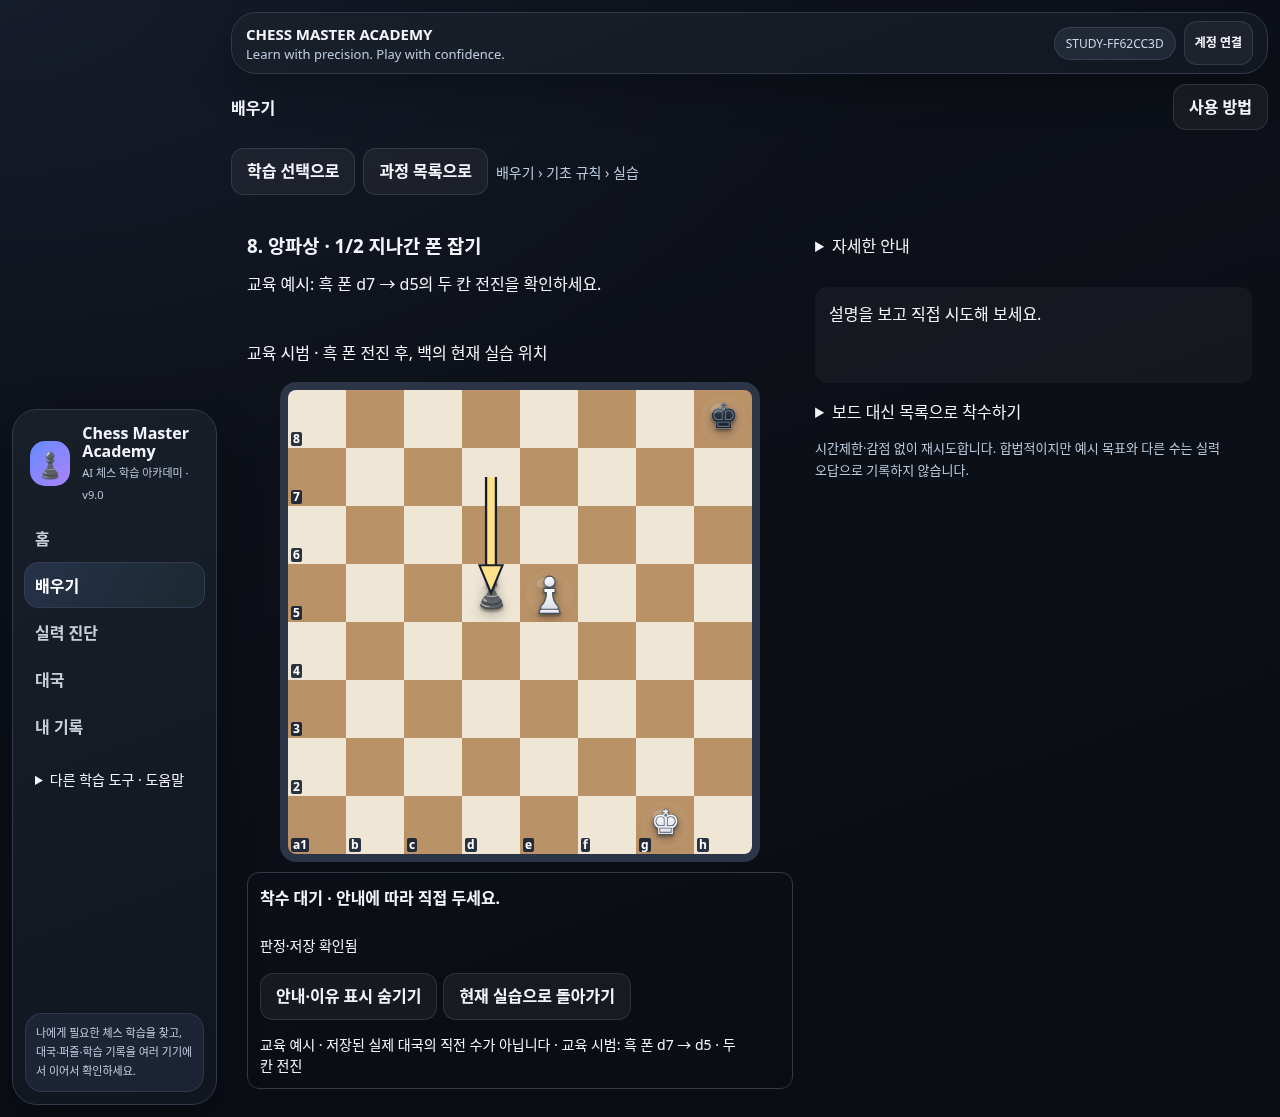
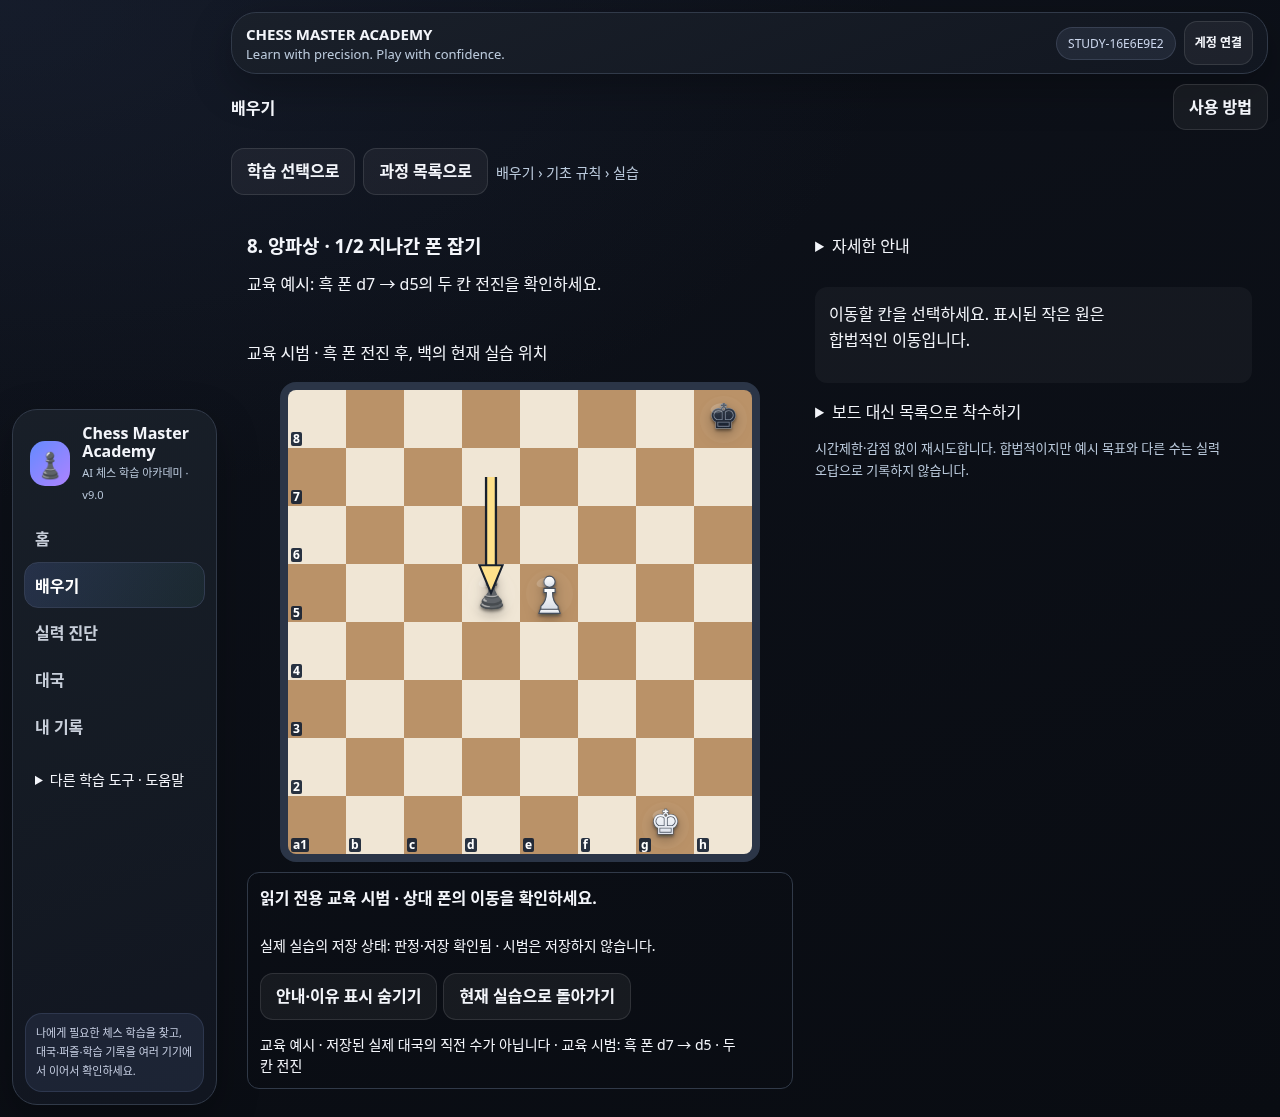
Keep en passant demonstration feedback and targets read-only

Changed region(s): [[0.1875, 0.7914, 0.5, 0.8523], [0.6562, 0.2739, 0.875, 0.3044], [0.8438, 0.0304, 0.9062, 0.0609]]

diff --git a/public/foundations.js b/public/foundations.js
@@ -16,15 +16,16 @@ foundation.innerHTML=`<div class="foundation-header"><span class="tag">규칙부
 const feedbackPanel=document.createElement('section');feedbackPanel.id='foundationLive';feedbackPanel.setAttribute('aria-label','착수 판정과 저장 상태');
 for(const [id,label]of [['foundationOutcome','설명을 보고 직접 시도해 보세요.'],['foundationSave','저장 상태 확인 대기']]){const n=make(feedbackPanel,'p',label);n.id=id;n.setAttribute('role','status');n.setAttribute('aria-atomic','true');}
 $('foundationBoard').after(feedbackPanel);const visualTools=make(feedbackPanel,'div');visualTools.id='foundationVisualTools';const visualToggle=button(visualTools,'안내·이유 표시 숨기기',()=>{showVisual=!showVisual;paint();});visualToggle.id='foundationVisualToggle';
-const demoStart=button(visualTools,'앙파상 교육 예시 보기',()=>{demoFrame='before';paint();});demoStart.id='foundationDemoStart';const demoNext=button(visualTools,'상대 폰 두 칸 이동 보기',()=>{demoFrame='after';paint();});demoNext.id='foundationDemoNext';const demoReturn=button(visualTools,'현재 실습으로 돌아가기',()=>{demoFrame=null;paint();});demoReturn.id='foundationDemoReturn';
+const demoStart=button(visualTools,'앙파상 교육 예시 보기',()=>{selected=null;demoFrame='before';paint();});demoStart.id='foundationDemoStart';const demoNext=button(visualTools,'상대 폰 두 칸 이동 보기',()=>{demoFrame='after';paint();});demoNext.id='foundationDemoNext';const demoReturn=button(visualTools,'현재 실습으로 돌아가기',()=>{demoFrame=null;paint();});demoReturn.id='foundationDemoReturn';
 const visualLegend=make(feedbackPanel,'p');visualLegend.id='foundationVisualLegend';const retry=button(feedbackPanel,'저장 상태 다시 확인',()=>load());retry.id='foundationSaveRetry';retry.hidden=true;
 const fullInstruction=make($('foundationFeedback').parentElement,'details');fullInstruction.id='foundationFullInstruction';make(fullInstruction,'summary','자세한 안내');const fullInstructionText=make(fullInstruction,'p');$('foundationFeedback').before(fullInstruction);
 $('foundationFeedback').removeAttribute('role');$('foundationPromotionWrap').remove();
 const introDetails=document.createElement('details');make(introDetails,'summary','배우는 내용과 범위');const header=foundation.querySelector('.foundation-header');for(const p of [...header.querySelectorAll('p')])introDetails.append(p);header.append(introDetails);const alternatives=document.createElement('details');make(alternatives,'summary','다른 학습으로 이동 · 저장된 활동 보존');alternatives.append(header.querySelector('.btn-row'));header.append(alternatives);
 const home=document.createElement('section');home.id='foundationHome';home.className='card';home.innerHTML='<h3>어디서 이어갈까요?</h3><p id="foundationHomeText">규칙을 처음 배우면 아카데미 기초부터 시작하세요. 경험이 있다면 진단과 훈련을 선택할 수 있어요.</p><div class="btn-row"><button class="btn primary" id="foundationHomeOpen">기초 아카데미 보기</button><button class="btn" id="foundationHomeDiagnosis">진단 · 이어하기</button></div>';$('home').prepend(home);
-let data=null,owner=null,generation=0,busy=false,selected=null,failed=false,loading=null,tacticsChosen=false,showVisual=true,demoFrame=null;
+let data=null,owner=null,generation=0,busy=false,selected=null,failed=false,loading=null,tacticsChosen=false,showVisual=true,demoFrame=null,outcomeText='설명을 보고 직접 시도해 보세요.',saveText='저장 상태 확인 대기';
 const notice=s=>{$('foundationStatus').textContent=s;};
-function feedback(outcome,save){if(outcome)$('foundationOutcome').textContent=outcome;if(save)$('foundationSave').textContent=save;$('foundationSaveRetry').hidden=!failed;}
+function displayFeedback(){const outcome=demoFrame?'읽기 전용 교육 시범 · 상대 폰의 이동을 확인하세요.':outcomeText;const save=demoFrame?'실제 실습의 저장 상태: '+saveText+' · 시범은 저장하지 않습니다.':saveText;for(const[id,text]of [['foundationOutcome',outcome],['foundationSave',save]])if($(id).textContent!==text)$(id).textContent=text;}
+function feedback(outcome,save){if(outcome)outcomeText=outcome;if(save)saveText=save;displayFeedback();$('foundationSaveRetry').hidden=!failed;}
 function reset(){demoFrame=null;feedback('설명을 보고 직접 시도해 보세요.','저장 상태 확인 대기');window.cmaHomeFoundation?.(null);tacticsChosen=false;generation++;loading=null;data=null;owner=token;selected=null;busy=false;failed=false;$('foundationWorkspace').hidden=true;$('foundationCards').replaceChildren();$('foundationPrimary').replaceChildren();$('foundationBoard').replaceChildren();$('foundationHomeText').textContent='기초 진행은 로그인한 계정별로 저장됩니다. 진단과 훈련은 별도로 이어갑니다.';}
 function controls(){foundation.setAttribute('aria-busy',String(busy));for(const b of foundation.querySelectorAll('button:not(.sq),select'))b.disabled=busy||failed;for(const id of ['foundationReload','foundationSaveRetry','foundationToTactics','foundationReturnDiagnosis','foundationReturnTraining'])$(id).disabled=busy;window.cmaNavigation?.refresh();}
 async function loadCore(){if(owner!==token)reset();if(busy)return;if(!token){$('foundationPrimary').replaceChildren();notice('로그인 후 기초 진행을 저장하고 이어갈 수 있습니다.');button($('foundationPrimary'),'계정 연결 후 시작',()=>ready(window.cmaNavigation?'learn/basics':'learn'));return;}const id=token,rev=++generation;busy=true;failed=false;feedback(null,'저장된 상태 확인 중…');notice('기초 학습의 저장 상태를 불러오는 중입니다…');controls();try{const d=await api('/foundations');if(id!==token||rev!==generation)return;data=d;render();feedback(null,'서버 저장 상태 확인됨');notice(d.scope);}catch(e){if(id===token&&rev===generation){failed=true;feedback('판정 대기 · 저장 상태를 다시 확인하세요.','불러오기 실패 · 기존 기록은 변경하지 않았습니다.');notice('기초 진행을 불러오지 못했습니다. 기존 기록은 그대로입니다. 다시 불러오세요. '+e.message);}}finally{if(id===token&&rev===generation){busy=false;controls();paint();}}}
@@ -32,7 +33,7 @@ function load(){if(owner!==token)reset();if(loading)return loading;const job=loa
 async function act(action,course_id,value=''){const navigationVersion=window.cmaNavigation?.version();if(['start','review'].includes(action))window.cmaNavigation?.capture();if(busy||failed||!data||owner!==token)return;const id=token,rev=++generation;busy=true;demoFrame=null;selected=null;feedback('착수·단계 확인 중…','판정과 저장 응답 대기 중');controls();notice('기초 진행을 저장하고 있습니다…');try{const d=await api('/foundations/action','POST',{action,course_id,revision:data.revision,step:data.active?.step||0,value});if(id!==token||rev!==generation)return;data=d;render();const stillHere=navigationVersion===window.cmaNavigation?.version();window.cmaNavigation?.foundationAction(action,navigationVersion);feedback(null,'판정·저장 확인됨');notice(d.scope);if(stillHere&&(action==='start'||action==='review'||action==='next')){$('foundationStepTitle').focus();$('foundationWorkspace').scrollIntoView({block:'start'});}}catch(e){if(id===token&&rev===generation){failed=true;feedback('판정 미확인 · 재제출하지 말고 저장 상태를 확인하세요.','저장 여부 미확인 · '+e.message);notice('저장 여부를 확인하려면 다시 불러오세요. 중복 제출하지 않습니다. '+e.message);}}finally{if(id===token&&rev===generation){busy=false;controls();paint();}}}
 async function submit(from,to){const task=data?.active;if(busy||failed||!task||task.solved||demoFrame)return;const base=from+to;let promotion='';if(task.legal.some(u=>u.startsWith(base)&&u.length===5)){const account=token,rev=generation,view=window.cmaNavigation?.version();busy=true;controls();try{promotion=await choosePromotion(from,to,fromFen(task.fen)[from],task.legal);if(promotion===null||account!==token||rev!==generation||view!==window.cmaNavigation?.version())return;}finally{if(account===token&&rev===generation){busy=false;controls();paint();if(view===window.cmaNavigation?.version())$('foundationBoard').querySelector(`[aria-label^="${from} "]`)?.focus({preventScroll:true});}}}if(promotion!==null)act('move',task.course_id,base+promotion);}
 function instruction(t){const guide=t.visual?.arrows?.find(a=>a.kind==='guide');return t.kind==='move'&&guide?'이동 안내: '+guide.from+' → '+guide.to+' · '+t.text.split('. ')[0]:t.text;}
-function paint(){const t=data?.active;if(!t)return;const focused=$('foundationBoard').contains(document.activeElement)?(selected||document.activeElement.getAttribute('aria-label')?.split(' ')[0]):null;const demo=t.visual?.demonstration;if(demoFrame&&!demo)demoFrame=null;$('foundationTurn').textContent=demoFrame?(demoFrame==='before'?'교육 시범 · 흑 폰이 두 칸 전진하기 전':'교육 시범 · 흑 폰 전진 후, 백의 현재 실습 위치'):t.solved?'이 단계 확인 완료':(t.side==='white'?'백':'흑')+' 차례 · '+(t.kind==='judge'?'현재 보드를 보고 판단하세요':'기물을 고른 뒤 도착 칸을 누르세요');$('foundationInstruction').textContent=demoFrame?'교육 예시: 흑 폰 d7 → d5의 두 칸 전진을 확인하세요.':instruction(t);const displayed=demoFrame&&demo?(demoFrame==='before'?demo.before_fen:demo.after_fen):t.fen;drawBoard('foundationBoard',fromFen(displayed),{flip:t.side==='black',selected,targets:selected?t.legal.filter(u=>u.startsWith(selected)).map(u=>({to:u.slice(2,4)})):[],onClick:!demoFrame&&!busy&&!failed&&!t.solved&&t.kind==='move'?sq=>{if(selected===sq){selected=null;paint();return;}if(selected){submit(selected,sq);return;}if(t.pieces.some(p=>p.square===sq)){selected=sq;paint();$('foundationFeedback').textContent='이동할 칸을 선택하세요. 표시된 작은 원은 합법적인 이동입니다.';}else $('foundationFeedback').textContent='지금 차례의 기물을 먼저 선택해 주세요.';}:undefined});const visual=demoFrame&&demo?{fen:displayed,arrows:[{from:'d7',to:'d5',kind:'guide',label:'교육 시범: 흑 폰 d7 → d5 · 두 칸 전진'}]}:t.visual;window.cmaFoundationVisual?.draw('foundationBoard',visual,t.side==='black',showVisual);visualToggle.textContent=showVisual?'안내·이유 표시 숨기기':'안내·이유 표시 다시 보기';demoStart.hidden=!demo||!!demoFrame;demoNext.hidden=demoFrame!=='before';demoReturn.hidden=!demoFrame;visualLegend.textContent=(demoFrame?demo.label+' · ':'')+(showVisual?(visual?.arrows||[]).map(a=>a.label).join(' / '):'안내·이유 표시를 숨겼습니다.')+(visual?.check_king?' · '+visual.check_king+' 킹 체크':'')+(visual?.ending==='checkmate'?' · 체크메이트':visual?.ending==='stalemate'?' · 스테일메이트':'');if(focused)$('foundationBoard').querySelector(`[aria-label^="${focused} "]`)?.focus();}
+function paint(){const t=data?.active;if(!t)return;const focused=$('foundationBoard').contains(document.activeElement)?(selected||document.activeElement.getAttribute('aria-label')?.split(' ')[0]):null;const demo=t.visual?.demonstration;if(demoFrame&&!demo)demoFrame=null;displayFeedback();$('foundationTurn').textContent=demoFrame?(demoFrame==='before'?'교육 시범 · 흑 폰이 두 칸 전진하기 전':'교육 시범 · 흑 폰 전진 후, 백의 현재 실습 위치'):t.solved?'이 단계 확인 완료':(t.side==='white'?'백':'흑')+' 차례 · '+(t.kind==='judge'?'현재 보드를 보고 판단하세요':'기물을 고른 뒤 도착 칸을 누르세요');$('foundationInstruction').textContent=demoFrame?'교육 예시: 흑 폰 d7 → d5의 두 칸 전진을 확인하세요.':instruction(t);const displayed=demoFrame&&demo?(demoFrame==='before'?demo.before_fen:demo.after_fen):t.fen;drawBoard('foundationBoard',fromFen(displayed),{flip:t.side==='black',selected:demoFrame?null:selected,targets:!demoFrame&&selected?t.legal.filter(u=>u.startsWith(selected)).map(u=>({to:u.slice(2,4)})):[],onClick:!demoFrame&&!busy&&!failed&&!t.solved&&t.kind==='move'?sq=>{if(selected===sq){selected=null;paint();return;}if(selected){submit(selected,sq);return;}if(t.pieces.some(p=>p.square===sq)){selected=sq;paint();$('foundationFeedback').textContent='이동할 칸을 선택하세요. 표시된 작은 원은 합법적인 이동입니다.';}else $('foundationFeedback').textContent='지금 차례의 기물을 먼저 선택해 주세요.';}:undefined});const visual=demoFrame&&demo?{fen:displayed,arrows:[{from:'d7',to:'d5',kind:'guide',label:'교육 시범: 흑 폰 d7 → d5 · 두 칸 전진'}]}:t.visual;window.cmaFoundationVisual?.draw('foundationBoard',visual,t.side==='black',showVisual);visualToggle.textContent=showVisual?'안내·이유 표시 숨기기':'안내·이유 표시 다시 보기';demoStart.hidden=!demo||!!demoFrame;demoNext.hidden=demoFrame!=='before';demoReturn.hidden=!demoFrame;visualLegend.textContent=(demoFrame?demo.label+' · ':'')+(showVisual?(visual?.arrows||[]).map(a=>a.label).join(' / '):'안내·이유 표시를 숨겼습니다.')+(visual?.check_king?' · '+visual.check_king+' 킹 체크':'')+(visual?.ending==='checkmate'?' · 체크메이트':visual?.ending==='stalemate'?' · 스테일메이트':'');if(focused)$('foundationBoard').querySelector(`[aria-label^="${focused} "]`)?.focus();}
 function render(){if(!data)return;window.cmaHomeFoundation?.(data);window.cmaNavigation?.foundationLoaded(data);if(data.rules_first&&!tacticsChosen)tactics.open=false;const primary=$('foundationPrimary');primary.replaceChildren();const current=data.active;const next=data.courses.find(c=>c.id===(current&&!current.done?current.course_id:data.recommended));if(next){const badge=make(primary,'span','추천','tag');badge.id='foundationRecommendedBadge';}const h=make(primary,'h3',next?'▶ 다음 기초 · '+next.title:'✓ 기초 예시를 모두 확인했어요');h.id='foundationRecommendedTitle';h.tabIndex=-1;
  make(primary,'p',`${data.completed}/${data.total}과정 확인 · 설명을 보며 한 연습 기록`);
  if(next)button(primary,current?.course_id===next.id?'기초 이어하기':'권장 기초 시작',()=>current?.course_id===next.id&&window.cmaNavigation?window.cmaNavigation.go('learn/basics/practice'):act('start',next.id));else{make(primary,'p','완료는 실력 인증이 아닙니다. 필요한 단원을 복습하거나 자발적으로 입문 관찰을 해보세요.');button(primary,'입문 관찰 선택',()=>window.cmaJourney.openEntry('gentle'));}

diff --git a/tests/test_foundation_feedback_browser.py b/tests/test_foundation_feedback_browser.py
@@ -48,16 +48,35 @@ def test_promotion_picker_selected_piece_goal_and_cancel(page,site,promotion):
     if promotion!='q':expect(page.locator('#foundationOutcome')).to_contain_text('합법적인 다른 수')
 
 
-def test_ep_demo_and_overlay_replay_are_read_only(page,site):
-    start(page,site,'en-passant');before=page.evaluate("api('/foundations')")
+@pytest.mark.parametrize('prior_alternative',[False,True])
+def test_ep_demo_and_overlay_replay_are_read_only(page,site,prior_alternative):
+    start(page,site,'en-passant')
+    if prior_alternative:
+        square(page,'foundationBoard','e5').click();square(page,'foundationBoard','e6').click()
+        expect(page.locator('#foundationOutcome')).to_contain_text('합법적인 다른 수')
+        expect(page.locator('#foundationAcademy')).to_have_attribute('aria-busy','false')
+    before=page.evaluate("api('/foundations')")
+    original_outcome=page.locator('#foundationOutcome').inner_text();original_save=page.locator('#foundationSave').inner_text()
     writes=[];page.on('request',lambda r:writes.append(r.url) if '/api/' in r.url and r.method!='GET' else None)
-    page.locator('#foundationDemoStart').click();expect(page.locator('#foundationVisualLegend')).to_contain_text('교육 예시')
+    square(page,'foundationBoard','e5').click()
+    expect(square(page,'foundationBoard','e5')).to_have_attribute('aria-pressed','true')
+    assert page.locator('#foundationBoard .target').count()>0
+    page.locator('#foundationDemoStart').click()
+    expect(page.locator('#foundationBoard .target, #foundationBoard .capture, #foundationBoard .selected')).to_have_count(0)
+    expect(page.locator('#foundationOutcome')).to_contain_text('읽기 전용 교육 시범')
+    expect(page.locator('#foundationOutcome')).not_to_contain_text('직접 두세요')
+    expect(page.locator('#foundationSave')).to_have_text('실제 실습의 저장 상태: '+original_save+' · 시범은 저장하지 않습니다.')
+    expect(page.locator('#foundationVisualLegend')).to_contain_text('교육 예시')
     expect(square(page,'foundationBoard','d7')).to_have_attribute('aria-label','d7 흑 폰')
     page.screenshot(path='/tmp/cma-foundation-feedback-captures/ep-before.png',full_page=True)
     page.locator('#foundationDemoNext').click();expect(square(page,'foundationBoard','d5')).to_have_attribute('aria-label','d5 흑 폰')
+    expect(page.locator('#foundationBoard .target, #foundationBoard .capture, #foundationBoard .selected')).to_have_count(0)
     page.screenshot(path='/tmp/cma-foundation-feedback-captures/ep-after.png',full_page=True)
     page.locator('#foundationVisualToggle').click();expect(page.locator('.foundation-arrows')).to_have_count(0)
     page.locator('#foundationVisualToggle').click();page.locator('#foundationDemoReturn').click()
+    expect(page.locator('#foundationBoard .target, #foundationBoard .capture, #foundationBoard .selected')).to_have_count(0)
+    expect(page.locator('#foundationOutcome')).to_have_text(original_outcome)
+    expect(page.locator('#foundationSave')).to_have_text(original_save)
     assert page.evaluate("api('/foundations')")==before and writes==[]
     expect(page.locator('#foundationVisualLegend')).to_contain_text('e5 → d6')
 

diff --git a/docs/qa-foundation-feedback/REPORT.md b/docs/qa-foundation-feedback/REPORT.md
@@ -45,3 +45,5 @@
 캡처 실제 픽셀 확인: [360px 완료](captures/complete-360.png), [PC 완료](captures/complete-1280.png), [위협과 이동 지시 구분](captures/threat-390.png), [보호와 완료 경로](captures/protection-390.png), [앙파상 전](captures/ep-before.png), [앙파상 후](captures/ep-after.png), [흑 320px](captures/black-320-1.png), [CSS 확대](captures/black-1280-2.png). 체크 표시/승격 선택지 가림 및 클릭 가능 여부는 실제 브라우저 assertion으로 확인했다. 캡처는 물리 모바일 검증이 아니다.
 
 원격 코드 head의 status/check run/Actions는 모두0건이었다. 최종 문서 head도 별도 조회하여 PR에 기록한다. 병합·배포는 수행하지 않았다. 공통 모션과 다른 보드 적용은 다음 단계이며 전체 사용자 요청 완료가 아니다.
+
+PR25 독립 검토 후속: 시범 중 판정은 읽기 전용 교육 안내, 저장 문구는 실제 실습 상태라는 접두사와 시범 비저장 안내로 구분한다. 복귀하면 저장해 둔 원래 판정/저장 문구를 정확히 복원한다. 시범 진입에서 selected를 비우고 렌더에서도 선택/합법목적지를 억제한다. e5 선택→전/후 시범→복귀, 최초/합법 대안 판정 각각 복원, 잔여 표시0/서버쓰기0을 포함한 집중 브라우저17개 통과(demo-followup.log), JS구문/diff check 통과. 이전 전체587은 3c8215f 기준이며 이 작은 후속에는 전체를 반복하지 않았다.

diff --git a/docs/qa-foundation-feedback/RESUME.md b/docs/qa-foundation-feedback/RESUME.md
@@ -10,3 +10,5 @@
 - 다음: 부모의 PR25 독립 검토/운영 QA. 후속 단계는 공통 기물 모션·전체 보드 체크/레이아웃이며 이번에 완료하지 않음. 임의 다음 단계 착수 전 부모와 조율.
 - 재접속 확인: git status --short; git rev-parse HEAD; git ls-remote origin refs/heads/feat/foundation-board-feedback. 소스 미커밋 변경은 없어야 한다. 기존 테스트가 생성한 다른 docs PNG/캐시는 로컬에 보존돼 있을 수 있다.
 - 중간 실패/중단은 REPORT.md에 분리. /tmp/cma-foundation-final-* 및 -v2-*는 중단 결과, 최종은 -v3-*이다. 연결 오류가 있어도 실행됐을 수 있으므로 프로세스/로그 확인 후 재실행. 사용량/미저장 작업 복구를 보장하지 않음.
+
+PR25 독립 검토 후속: 시범 중 판정은 읽기 전용 교육 안내, 저장 문구는 실제 실습 상태라는 접두사와 시범 비저장 안내로 구분한다. 복귀하면 저장해 둔 원래 판정/저장 문구를 정확히 복원한다. 시범 진입에서 selected를 비우고 렌더에서도 선택/합법목적지를 억제한다. e5 선택→전/후 시범→복귀, 최초/합법 대안 판정 각각 복원, 잔여 표시0/서버쓰기0을 포함한 집중 브라우저17개 통과(demo-followup.log), JS구문/diff check 통과. 이전 전체587은 3c8215f 기준이며 이 작은 후속에는 전체를 반복하지 않았다.
